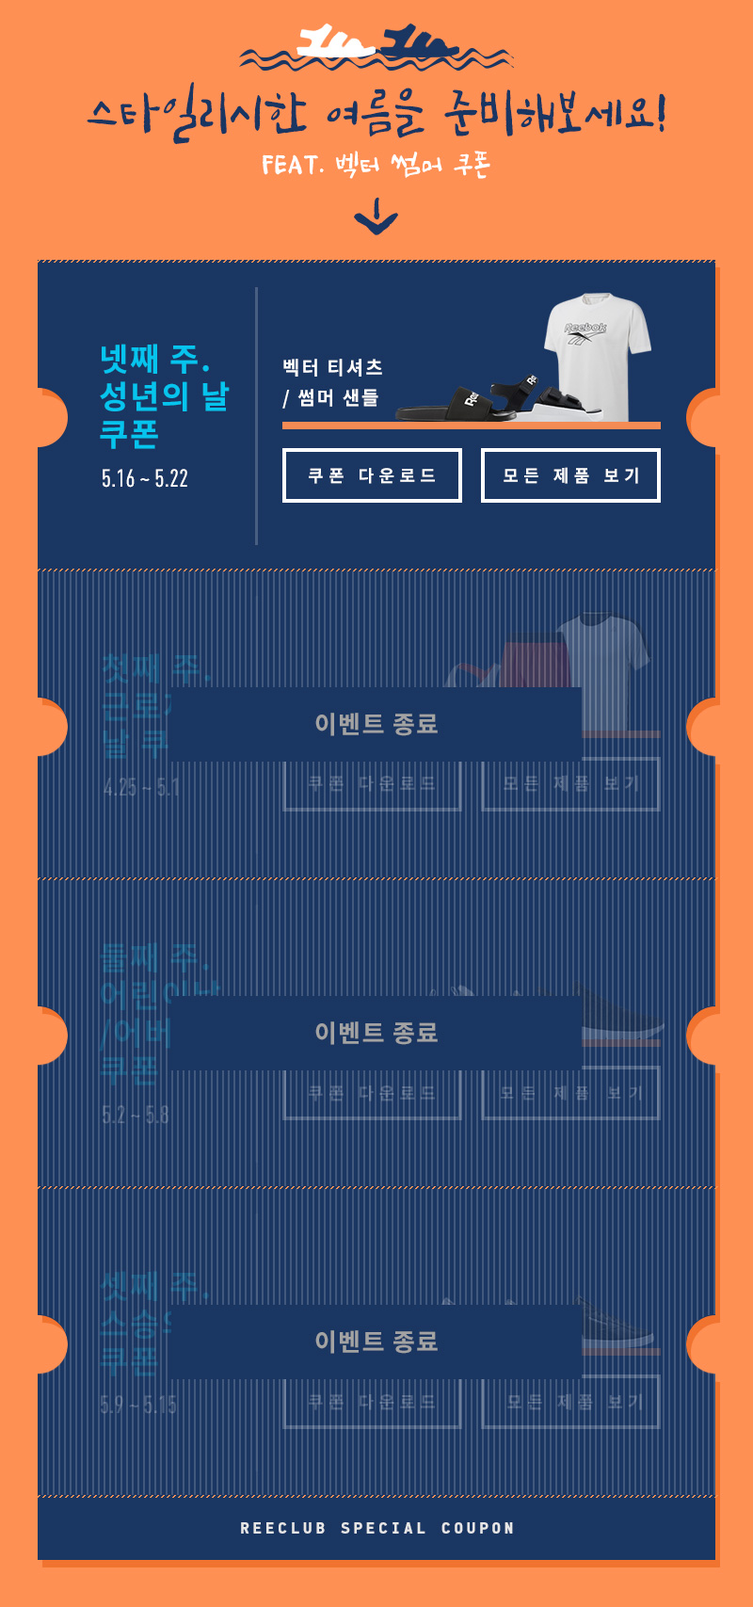
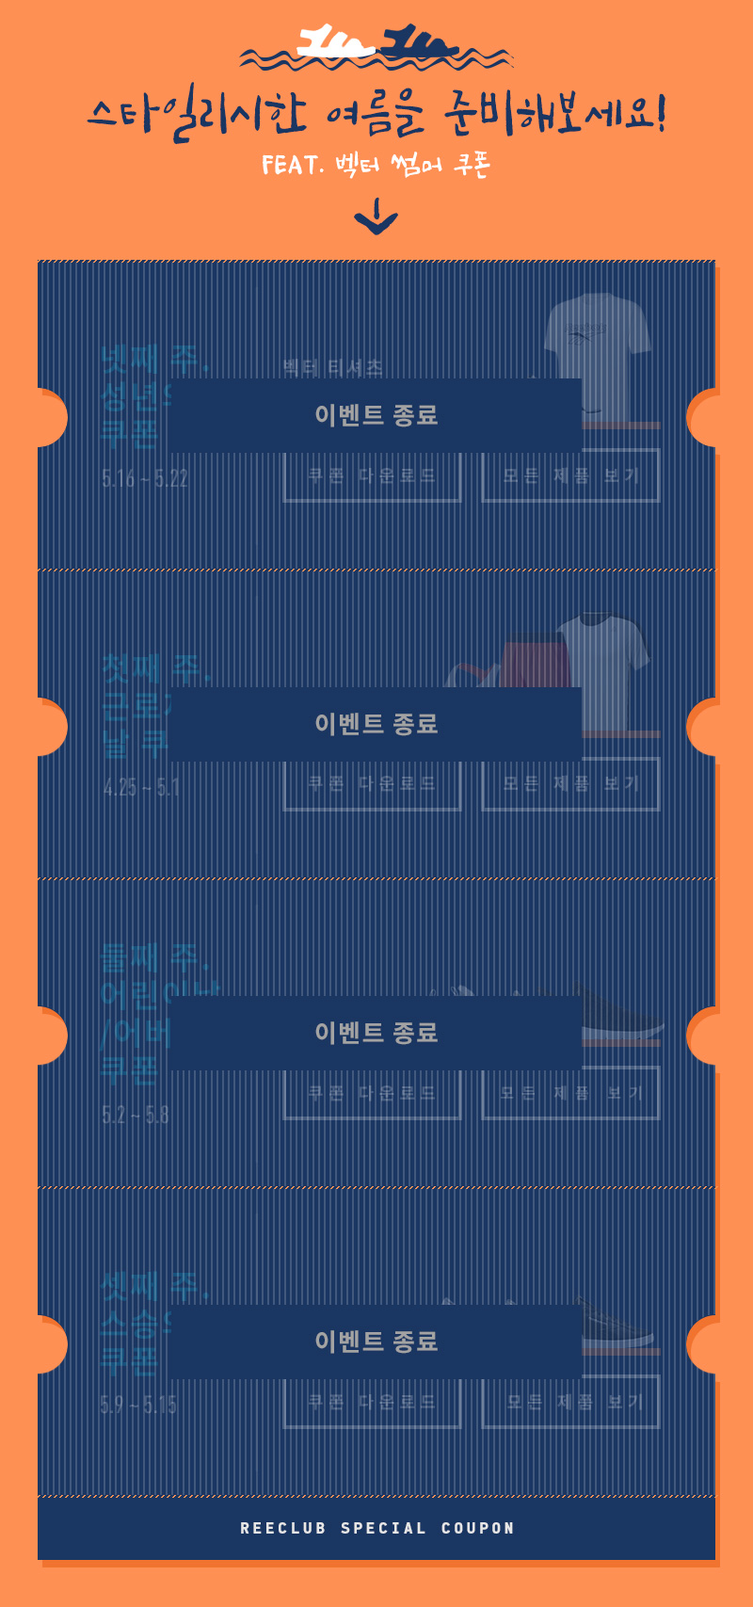
ree_CP_가정의달 마지막

Changed region(s): [[0.0625, 0.1552, 0.9688, 0.3726]]

diff --git a/mobile/html/reebok/pn/2019Family.html b/mobile/html/reebok/pn/2019Family.html
@@ -1,93 +1,87 @@
 <section id="contents">
-		<style type="text/css">#contents{padding-bottom:0px}.pseudo-element,.campaign .close:after,.campaign .close:before,.campaign .video_visual .video_layer:before,.campaign .video-btn:before,.campaign .location a:after{content:'';display:block}html{font-size:12px}@media screen and (max-width: 320px){html{font-size:10px}}@media screen and (min-width: 800px){html{font-size:12px}}.element_to_pop_up{background-color:#fafafb;color:#000;display:none;width:320px;overflow:hidden}@media screen and (max-width: 320px){.element_to_pop_up{width:300px}}.element_to_pop_up .b-close{cursor:pointer;position:absolute;right:15px;top:15px;text-align:right}.element_to_pop_up .b-close img{width:50%}.element_to_pop_up .con{text-align:center}.element_to_pop_up .con img{width:80%}.element_to_pop_up .desc{background:url("/images/reebok/about/heritage/pop_bg.png") 0 0 no-repeat;background-size:100% 100%;padding:3.5rem 0}.element_to_pop_up .desc .tle{position:relative;margin:0px 0 0 1rem;color:#000;font:600 4rem 'dinpro cond'}.element_to_pop_up .desc .tle:before{position:absolute;top:-20px;content:'';width:42px;height:2px;background:#000}.element_to_pop_up .desc .tle2{margin:1rem 0 0 1rem;color:#000;font:0.9rem/1.8rem  'NotoSansKR';letter-spacing:-0.8px}.element_to_pop_up .desc .btn{padding:2rem 0 0 1rem}.element_to_pop_up .desc .btn a.inner-buybtn{position:relative;display:inline-block;margin:0;padding:0 50px;color:#866432;border:2px solid #866432;font:15px/46px  'NotoSansKR';overflow:hidden}.element_to_pop_up .desc .btn a.inner-buybtn em{position:relative;z-index:100;transition:all 0.6s ease-out}.element_to_pop_up .desc .btn a.inner-buybtn .bg{display:inline-block;width:100%;height:63px;position:absolute;bottom:-64px;left:0;background:#866432;transition:all 0.4s ease-out}.element_to_pop_up .desc a.inner-buybtn:hover{color:#fff}.element_to_pop_up .desc a.inner-buybtn:hover .bg{bottom:-10px}.element_to_pop_up .bg_shoe{position:absolute;bottom:0;text-align:right}.element_to_pop_up .bg_shoe img{width:60%;mix-blend-mode:multiply}.clearfix:after{content:'.';display:block;height:0;font-size:0;clear:both;visibility:hidden}.campaign .close{width:40px;height:40px;display:block;position:absolute;top:0;right:0;z-index:10}.campaign .close:after,.campaign .close:before{width:50%;height:1px;position:absolute;top:50%;left:50%;transform:translate3d(-50%, -50%, 0) rotate(45deg);-webkit-transform:translate3d(-50%, -50%, 0) rotate(45deg);background:#5c5c5c}.campaign .close:after{transform:translate3d(-50%, -50%, 0) rotate(-45deg);-webkit-transform:translate3d(-50%, -50%, 0) rotate(-45deg)}.campaign .button_area{padding:0rem 0px;text-align:center}.campaign .button_area .button{padding:1.2rem 2.5rem;display:inline-block;font:500 1.3rem 'dinpro cond','NotoSansKR';color:#000;border:1px solid  #000}.campaign .video_visual{box-sizing:border-box;-webkit-box-sizing:border-box;width:100%;padding-bottom:123.4375%;position:relative}.campaign .video_visual .cover{width:100%;position:absolute;top:50%;left:0;transform:translate3d(0, -50%, 0);-webkit-transform:translate3d(0, -50%, 0);z-index:1}.campaign .video_visual .cover h2{font:4rem/4rem 'QStencil';text-align:center}.campaign .video_visual .bg{position:absolute;width:100%;height:100%}.campaign .video_visual .bg img{width:100%}.campaign .video_visual .video_layer{position:absolute;top:0;left:0;width:100%;height:100%;z-index:-1;overflow:hidden}.campaign .video_visual .video_layer .close{width:40px;height:40px;top:5px;right:5px;opacity:0;transition:opacity 0.5s ease 0.3s;-webkit-transition:opacity 0.5s 0.3s}.campaign .video_visual .video_layer .close:before,.campaign .video_visual .video_layer .close:after{width:70%;height:2px;background:#fff}.campaign .video_visual .video_layer iframe{position:relative;z-index:3}.campaign .video_visual .video_layer:before{width:100%;height:100%;transition:all 0.5s;-webkit-transition:all 0.5s;background:#000;filter:blur(10px);-webkit-filter:blur(10px);opacity:0;transform-origin:center center;-webkit-transform-origin:center center;transform:scale(0);-webkit-transform:scale(0);position:absolute;top:0;left:0}.campaign .video_visual .video_layer.active{z-index:1}.campaign .video_visual .video_layer.active .close{opacity:1}.campaign .video_visual .video_layer.active:before{opacity:1;transform:scale(2);-webkit-transform:scale(2)}.campaign .video_visual .video_layer.hide{z-index:1}.campaign .video_visual .video_layer.hide .close{opacity:0;transition-delay:0;-webkit-transition-delay:0}.campaign .video_visual .video_layer.hide:before{opacity:0;transform:scale(0);-webkit-transform:scale(0)}.campaign .video-btn{width:70px;height:70px;display:block;border:7px solid  #fff;position:relative;border-radius:70px;box-sizing:border-box;-webkit-box-sizing:border-box}.campaign .video-btn:before{position:absolute;top:50%;left:50%;border-top:14px solid transparent;border-bottom:14px solid transparent;border-left:14px solid #fff;margin-left:2px;transform:translate3d(-50%, -50%, 0);-webkit-transform:translate3d(-50%, -50%, 0)}.campaign .location{display:-webkit-flex;display:-moz-flex;display:-ms-flex;display:-o-flex;display:flex;padding:15px 13px;border-top:2px solid  #b71720;background:#252525}.campaign .location>*{margin-right:15px;font:500 13px 'dinpro cond';text-transform:uppercase}.campaign .location a{position:relative;color:#8c8c8c}.campaign .location a:after{width:4px;height:4px;position:absolute;top:2px;right:-9px;border-bottom:1px solid #5c5c5c;border-right:1px solid #5c5c5c;transform:rotate(-45deg);-webkit-transform:rotate(-45deg)}.campaign .location>span{color:#fff;margin-right:0}.campaign .location>span .colab{margin:0px 2px;font-family:'dinpro cond';font-weight:100}.campaign .num_paging{text-align:center}.campaign .num_paging a{width:26px;height:26px;border-radius:26px;margin:0 2px;display:inline-block;border:1px solid #fff;box-sizing:border-box;color:#fff;font:16px/26px 'reefont-condensed';transition-duration:0s;-webkit-transition-duration:0s}.campaign .num_paging .on{color:#000;border-color:#000;background:#000;color:#fff}.campaign .prodlist{width:100%;padding:0 15px;position:relative;display:-webkit-flex;display:-moz-flex;display:-ms-flex;display:-o-flex;display:flex;-webkit-flex-wrap:wrap;flex-wrap:wrap;box-sizing:border-box;-webkit-box-sizing:border-box}.campaign .prodlist>.box{width:50%;margin-bottom:10px}.campaign .prodlist>.box .inner{width:100%;padding-right:5px;position:relative;box-sizing:border-box;-webkit-box-sizing:border-box}.campaign .prodlist>.box .inner>a{width:100%;width:calc(100% - 5px);height:100%;position:absolute;top:0;left:0;display:block;z-index:5}.campaign .prodlist>.box .img{width:100%;position:relative;padding-bottom:122.6190%;background:#fff}.campaign .prodlist>.box .img img{position:absolute;top:0;left:0;width:100%}.campaign .prodlist>.box .info{padding:20px 0 20px 12px;background:#fff}.campaign .prodlist>.box .info>*{text-transform:uppercase;font:500 1rem 'dinpro cond'}.campaign .prodlist>.box .info .ctgr{margin-bottom:0.2rem;color:#7f7979}.campaign .prodlist>.box .info .tit a{color:#252525;font:500 1.4rem 'dinpro cond'}.campaign .prodlist>.box:nth-child(2n) .inner{padding-right:0;padding-left:5px}.main .video_visual{width:100%;padding-bottom:104%;position:relative}.main .video_visual .cover>*{color:#fff;text-align:center}.main .video_visual .cover h2{font:5.4rem/5rem 'QStencil';color:#fff;margin-bottom:1.2rem}.main .video_visual .cover .desc{margin-bottom:2rem;font:300 1.6rem 'NotoSansKR'}.main .video_visual .cover .video-btn{width:60px;height:60px;border-width:6px;margin:0 auto}.main .video_visual .cover .video-btn:before{border-top-width:12px;border-bottom-width:12px;border-left-width:12px}.main .video_visual .bg{overflow:hidden}.main .video_visual .bg img{position:absolute;top:0;left:0;opacity:0;transform:scale(1.02);-webkit-transform:scale(1.02);transition:all 1.5s;-webkit-transition:all 1.5s}.main .video_visual .bg img.active{opacity:1;transform:scale(1);-webkit-transform:scale(1)}.main .camapign_list a{width:100%;padding-bottom:104%}.main .camapign_list img{width:100%}.about_campaign .banner{width:100%}.about_campaign .banner *{display:block;width:100%}.about_campaign .list_btn{background:#e8e8e8;padding:4rem 1.5rem}.about_campaign .list_btn a{width:100%;height:5rem;display:block;border:1px solid #2e2e2e;text-align:center;font:500 2.2rem/5rem 'dinpro cond';color:#000;letter-spacing:2px}.about_campaign .list{background:#333;text-align:center}.about_campaign .list a{color:#fff;display:block;padding:2.3rem 6rem}.about_campaign .list a span{position:relative;left:-5px;display:inline-block;width:68%;vertical-align:middle}.about_campaign .list a span img{width:100%}.about_campaign .list a em{vertical-align:middle}.about_campaign .list a em:after{font-size:15px;position:relative;top:1px}.about_campaign .list a:after{font-size:1.5rem;padding:0.5rem 0 0 1rem;display:inline-block}#video-layer.popup-video.loaded .bg{opacity:.7}#video-layer.popup-video .video-box{position:absolute;top:50%;left:50%;width:100%;height:50%;transform:translate(-50%, -50%);-webkit-transform:translate(-50%, -50%);-moz-transform:translate(-50%, -50%);-o-transform:translate(-50%, -50%);-ms-transform:translate(-50%, -50%);z-index:3}#video-layer.popup-video .close_x_btn{width:50px;height:50px;top:12%}#video-layer{position:fixed;top:0;left:0;width:100%;height:100%;z-index:1000}#video-layer.loaded .bg{opacity:1;transform:scale(1.2);-webkit-transform:scale(1.2)}#video-layer.loaded .close_x_btn{opacity:1}#video-layer .video-box{position:relative;width:100%;height:100%;z-index:3}#video-layer .close_x_btn{width:70px;height:70px;position:absolute;top:0;right:0;z-index:5;opacity:0}#video-layer .bg{width:100%;height:100%;position:absolute;top:0;left:0;transform-origin:center center;-webkit-transform-origin:center center;transform:scale(0);-webkit-transform:scale(0);opacity:0;background:#000;z-index:1;transition:all 0.4s;-webkit-transition:all 0.4s}.main_list .video_visual{position:relative;background:#eff0ea;padding-bottom:149%}@media screen and (min-width: 750px){.main_list .video_visual{padding-bottom:125%}}.main_list .video_visual .bg img{box-sizing:border-box;-webkit-box-sizing:border-box;border:10px solid #eff0ea}.main_list .video_visual .cover{top:35%}.main_list .video_visual .txt{position:absolute;bottom:8%;width:100%;text-align:center}.main_list .video_visual .txt a.full_link{position:absolute;top:-16px;left:0;width:100%;height:143%}@media screen and (min-width: 750px){.main_list .video_visual .txt{bottom:6%}}.main_list .video_visual .txt .title{font:3.3rem 'QStencil'}.main_list .video_visual .txt .tit{display:inline-block;padding-bottom:1.5rem;font:400 1.2rem 'NotoSansKR';letter-spacing:-1px}.main_list .video_visual .txt .btn a{display:inline-block;padding:0.3rem 3.5rem 0 3.5rem;border:1px solid #151515;font:400 1.3rem/3.8rem 'dinpro cond', 'NotoSansKR';color:#000}.main_list .box{position:relative;border-bottom:2px solid #bebfba}.main_list .box a.nano_m{position:absolute;top:0;left:0;width:50%;height:100%}.main_list .box a.nano_w{position:absolute;top:0;right:0;width:50%;height:100%}.main_list .box a.full_link{position:absolute;top:0;left:0;width:100%;height:100%}.main_list .box .img{border:10px solid #eff0ea;box-sizing:border-box;-webkit-box-sizing:border-box}.main_list .box .img img{width:100%}.main_list .box .txt{padding:1rem 0 3rem 0;text-align:center;background:#eff0ea}.main_list .box .txt .title{font:3.8rem 'QStencil'}.main_list .box .txt .title span{display:inline-block;vertical-align:middle;line-height:4rem}.main_list .box .txt .title span img{width:3.3rem}.main_list .box .txt .tit{display:inline-block;padding-bottom:1.5rem;font:400 1.1rem 'NotoSansKR';letter-spacing:-1px}.main_list .box .txt .btn a{display:inline-block;width:12rem;padding:0.3rem 0 0 0;border:1px solid #151515;font:1.3rem/3.8rem 'dinpro cond', 'NotoSansKR';color:#000}.campaign_list_update{display:block;background:url("/images/reebok/about/campaign_list/bg.jpg");background-size:100%;padding:8rem 1rem 4rem 1rem}.campaign_list_update .box{padding-bottom:1rem}.campaign_list_update .box a{display:block}.campaign_list_update .box a img{width:100%}.campaign_list_update .box:last-child{padding-bottom:0px}.family2019 .visual_main img,.family2019 .box01 img,.family2019 .box02 img,.family2019 .cont_container img,.family2019 .info img,.family2019 .btm img{width:100%;position:relative;opacity:0;transition:all 1s ease-in}.family2019 .visual_main{position:relative}.family2019 .visual_main .img.on img{opacity:1}.family2019 .visual_main .deco{position:absolute;top:0;left:50%;transform:translateX(-50%);width:100%}.family2019 .visual_main .deco.on img{opacity:1;transition-delay:.4s}.box01{position:relative}.box01 img{top:1rem}.box01.on img{top:0;opacity:1}.box01 .lnk1{position:absolute;top:59%;left:4%;width:20%;height:5%}.box01 .lnk2{position:absolute;top:88%;left:52%;width:25%;height:4%}.box01 .lnk3{position:absolute;top:62%;left:37%;width:56%;height:11%}.box02 img{top:1rem}.box02.on img{top:0;opacity:1;transition-delay:.2s}.cont_container{position:relative}.cont_container img{top:1rem}.cont_container.on img{top:0;opacity:1;transition-delay:.2s}.cont_container .lnk4{position:absolute;top:27.6%;left:37%;width:24%;height:4%}.cont_container .lnk5{position:absolute;top:27.6%;left:64%;width:24%;height:4%}.cont_container .lnk6{position:absolute;top:47%;left:37%;width:24%;height:3.5%}.cont_container .lnk7{position:absolute;top:47%;left:64%;width:24%;height:3.5%}.info{position:relative}.info img{top:1rem}.info.on img{top:0;opacity:1;transition-delay:.2s}.info .lnk8{position:absolute;top:47.1%;left:23%;width:33%;height:4%}.btm{position:relative}.btm .img{top:1rem}.btm .end{position:absolute;bottom:-1rem}.btm.on .img{top:0;opacity:1;transition-delay:.2s}.btm.on .end{bottom:0;opacity:1;transition-delay:1s}
-		</style>
-						<div class="campaign about_campaign family2019">
-		
-							<div class="visual_main">
-								<div class="img scroll">
-									<img src="/images/reebok/2019/event/family/1904_main_MO.jpg" alt="">
-								</div>
-								<div class="deco scroll">
-									<img src="/images/reebok/2019/event/family/1904_topDeco_MO.png" alt="">
-								</div>
+	<style type="text/css">#contents{padding-bottom:0px}.pseudo-element,.campaign .close:after,.campaign .close:before,.campaign .video_visual .video_layer:before,.campaign .video-btn:before,.campaign .location a:after{content:'';display:block}html{font-size:12px}@media screen and (max-width: 320px){html{font-size:10px}}@media screen and (min-width: 800px){html{font-size:12px}}.element_to_pop_up{background-color:#fafafb;color:#000;display:none;width:320px;overflow:hidden}@media screen and (max-width: 320px){.element_to_pop_up{width:300px}}.element_to_pop_up .b-close{cursor:pointer;position:absolute;right:15px;top:15px;text-align:right}.element_to_pop_up .b-close img{width:50%}.element_to_pop_up .con{text-align:center}.element_to_pop_up .con img{width:80%}.element_to_pop_up .desc{background:url("/images/reebok/about/heritage/pop_bg.png") 0 0 no-repeat;background-size:100% 100%;padding:3.5rem 0}.element_to_pop_up .desc .tle{position:relative;margin:0px 0 0 1rem;color:#000;font:600 4rem 'dinpro cond'}.element_to_pop_up .desc .tle:before{position:absolute;top:-20px;content:'';width:42px;height:2px;background:#000}.element_to_pop_up .desc .tle2{margin:1rem 0 0 1rem;color:#000;font:0.9rem/1.8rem  'NotoSansKR';letter-spacing:-0.8px}.element_to_pop_up .desc .btn{padding:2rem 0 0 1rem}.element_to_pop_up .desc .btn a.inner-buybtn{position:relative;display:inline-block;margin:0;padding:0 50px;color:#866432;border:2px solid #866432;font:15px/46px  'NotoSansKR';overflow:hidden}.element_to_pop_up .desc .btn a.inner-buybtn em{position:relative;z-index:100;transition:all 0.6s ease-out}.element_to_pop_up .desc .btn a.inner-buybtn .bg{display:inline-block;width:100%;height:63px;position:absolute;bottom:-64px;left:0;background:#866432;transition:all 0.4s ease-out}.element_to_pop_up .desc a.inner-buybtn:hover{color:#fff}.element_to_pop_up .desc a.inner-buybtn:hover .bg{bottom:-10px}.element_to_pop_up .bg_shoe{position:absolute;bottom:0;text-align:right}.element_to_pop_up .bg_shoe img{width:60%;mix-blend-mode:multiply}.clearfix:after{content:'.';display:block;height:0;font-size:0;clear:both;visibility:hidden}.campaign .close{width:40px;height:40px;display:block;position:absolute;top:0;right:0;z-index:10}.campaign .close:after,.campaign .close:before{width:50%;height:1px;position:absolute;top:50%;left:50%;transform:translate3d(-50%, -50%, 0) rotate(45deg);-webkit-transform:translate3d(-50%, -50%, 0) rotate(45deg);background:#5c5c5c}.campaign .close:after{transform:translate3d(-50%, -50%, 0) rotate(-45deg);-webkit-transform:translate3d(-50%, -50%, 0) rotate(-45deg)}.campaign .button_area{padding:0rem 0px;text-align:center}.campaign .button_area .button{padding:1.2rem 2.5rem;display:inline-block;font:500 1.3rem 'dinpro cond','NotoSansKR';color:#000;border:1px solid  #000}.campaign .video_visual{box-sizing:border-box;-webkit-box-sizing:border-box;width:100%;padding-bottom:123.4375%;position:relative}.campaign .video_visual .cover{width:100%;position:absolute;top:50%;left:0;transform:translate3d(0, -50%, 0);-webkit-transform:translate3d(0, -50%, 0);z-index:1}.campaign .video_visual .cover h2{font:4rem/4rem 'QStencil';text-align:center}.campaign .video_visual .bg{position:absolute;width:100%;height:100%}.campaign .video_visual .bg img{width:100%}.campaign .video_visual .video_layer{position:absolute;top:0;left:0;width:100%;height:100%;z-index:-1;overflow:hidden}.campaign .video_visual .video_layer .close{width:40px;height:40px;top:5px;right:5px;opacity:0;transition:opacity 0.5s ease 0.3s;-webkit-transition:opacity 0.5s 0.3s}.campaign .video_visual .video_layer .close:before,.campaign .video_visual .video_layer .close:after{width:70%;height:2px;background:#fff}.campaign .video_visual .video_layer iframe{position:relative;z-index:3}.campaign .video_visual .video_layer:before{width:100%;height:100%;transition:all 0.5s;-webkit-transition:all 0.5s;background:#000;filter:blur(10px);-webkit-filter:blur(10px);opacity:0;transform-origin:center center;-webkit-transform-origin:center center;transform:scale(0);-webkit-transform:scale(0);position:absolute;top:0;left:0}.campaign .video_visual .video_layer.active{z-index:1}.campaign .video_visual .video_layer.active .close{opacity:1}.campaign .video_visual .video_layer.active:before{opacity:1;transform:scale(2);-webkit-transform:scale(2)}.campaign .video_visual .video_layer.hide{z-index:1}.campaign .video_visual .video_layer.hide .close{opacity:0;transition-delay:0;-webkit-transition-delay:0}.campaign .video_visual .video_layer.hide:before{opacity:0;transform:scale(0);-webkit-transform:scale(0)}.campaign .video-btn{width:70px;height:70px;display:block;border:7px solid  #fff;position:relative;border-radius:70px;box-sizing:border-box;-webkit-box-sizing:border-box}.campaign .video-btn:before{position:absolute;top:50%;left:50%;border-top:14px solid transparent;border-bottom:14px solid transparent;border-left:14px solid #fff;margin-left:2px;transform:translate3d(-50%, -50%, 0);-webkit-transform:translate3d(-50%, -50%, 0)}.campaign .location{display:-webkit-flex;display:-moz-flex;display:-ms-flex;display:-o-flex;display:flex;padding:15px 13px;border-top:2px solid  #b71720;background:#252525}.campaign .location>*{margin-right:15px;font:500 13px 'dinpro cond';text-transform:uppercase}.campaign .location a{position:relative;color:#8c8c8c}.campaign .location a:after{width:4px;height:4px;position:absolute;top:2px;right:-9px;border-bottom:1px solid #5c5c5c;border-right:1px solid #5c5c5c;transform:rotate(-45deg);-webkit-transform:rotate(-45deg)}.campaign .location>span{color:#fff;margin-right:0}.campaign .location>span .colab{margin:0px 2px;font-family:'dinpro cond';font-weight:100}.campaign .num_paging{text-align:center}.campaign .num_paging a{width:26px;height:26px;border-radius:26px;margin:0 2px;display:inline-block;border:1px solid #fff;box-sizing:border-box;color:#fff;font:16px/26px 'reefont-condensed';transition-duration:0s;-webkit-transition-duration:0s}.campaign .num_paging .on{color:#000;border-color:#000;background:#000;color:#fff}.campaign .prodlist{width:100%;padding:0 15px;position:relative;display:-webkit-flex;display:-moz-flex;display:-ms-flex;display:-o-flex;display:flex;-webkit-flex-wrap:wrap;flex-wrap:wrap;box-sizing:border-box;-webkit-box-sizing:border-box}.campaign .prodlist>.box{width:50%;margin-bottom:10px}.campaign .prodlist>.box .inner{width:100%;padding-right:5px;position:relative;box-sizing:border-box;-webkit-box-sizing:border-box}.campaign .prodlist>.box .inner>a{width:100%;width:calc(100% - 5px);height:100%;position:absolute;top:0;left:0;display:block;z-index:5}.campaign .prodlist>.box .img{width:100%;position:relative;padding-bottom:122.6190%;background:#fff}.campaign .prodlist>.box .img img{position:absolute;top:0;left:0;width:100%}.campaign .prodlist>.box .info{padding:20px 0 20px 12px;background:#fff}.campaign .prodlist>.box .info>*{text-transform:uppercase;font:500 1rem 'dinpro cond'}.campaign .prodlist>.box .info .ctgr{margin-bottom:0.2rem;color:#7f7979}.campaign .prodlist>.box .info .tit a{color:#252525;font:500 1.4rem 'dinpro cond'}.campaign .prodlist>.box:nth-child(2n) .inner{padding-right:0;padding-left:5px}.main .video_visual{width:100%;padding-bottom:104%;position:relative}.main .video_visual .cover>*{color:#fff;text-align:center}.main .video_visual .cover h2{font:5.4rem/5rem 'QStencil';color:#fff;margin-bottom:1.2rem}.main .video_visual .cover .desc{margin-bottom:2rem;font:300 1.6rem 'NotoSansKR'}.main .video_visual .cover .video-btn{width:60px;height:60px;border-width:6px;margin:0 auto}.main .video_visual .cover .video-btn:before{border-top-width:12px;border-bottom-width:12px;border-left-width:12px}.main .video_visual .bg{overflow:hidden}.main .video_visual .bg img{position:absolute;top:0;left:0;opacity:0;transform:scale(1.02);-webkit-transform:scale(1.02);transition:all 1.5s;-webkit-transition:all 1.5s}.main .video_visual .bg img.active{opacity:1;transform:scale(1);-webkit-transform:scale(1)}.main .camapign_list a{width:100%;padding-bottom:104%}.main .camapign_list img{width:100%}.about_campaign .banner{width:100%}.about_campaign .banner *{display:block;width:100%}.about_campaign .list_btn{background:#e8e8e8;padding:4rem 1.5rem}.about_campaign .list_btn a{width:100%;height:5rem;display:block;border:1px solid #2e2e2e;text-align:center;font:500 2.2rem/5rem 'dinpro cond';color:#000;letter-spacing:2px}.about_campaign .list{background:#333;text-align:center}.about_campaign .list a{color:#fff;display:block;padding:2.3rem 6rem}.about_campaign .list a span{position:relative;left:-5px;display:inline-block;width:68%;vertical-align:middle}.about_campaign .list a span img{width:100%}.about_campaign .list a em{vertical-align:middle}.about_campaign .list a em:after{font-size:15px;position:relative;top:1px}.about_campaign .list a:after{font-size:1.5rem;padding:0.5rem 0 0 1rem;display:inline-block}#video-layer.popup-video.loaded .bg{opacity:.7}#video-layer.popup-video .video-box{position:absolute;top:50%;left:50%;width:100%;height:50%;transform:translate(-50%, -50%);-webkit-transform:translate(-50%, -50%);-moz-transform:translate(-50%, -50%);-o-transform:translate(-50%, -50%);-ms-transform:translate(-50%, -50%);z-index:3}#video-layer.popup-video .close_x_btn{width:50px;height:50px;top:12%}#video-layer{position:fixed;top:0;left:0;width:100%;height:100%;z-index:1000}#video-layer.loaded .bg{opacity:1;transform:scale(1.2);-webkit-transform:scale(1.2)}#video-layer.loaded .close_x_btn{opacity:1}#video-layer .video-box{position:relative;width:100%;height:100%;z-index:3}#video-layer .close_x_btn{width:70px;height:70px;position:absolute;top:0;right:0;z-index:5;opacity:0}#video-layer .bg{width:100%;height:100%;position:absolute;top:0;left:0;transform-origin:center center;-webkit-transform-origin:center center;transform:scale(0);-webkit-transform:scale(0);opacity:0;background:#000;z-index:1;transition:all 0.4s;-webkit-transition:all 0.4s}.main_list .video_visual{position:relative;background:#eff0ea;padding-bottom:149%}@media screen and (min-width: 750px){.main_list .video_visual{padding-bottom:125%}}.main_list .video_visual .bg img{box-sizing:border-box;-webkit-box-sizing:border-box;border:10px solid #eff0ea}.main_list .video_visual .cover{top:35%}.main_list .video_visual .txt{position:absolute;bottom:8%;width:100%;text-align:center}.main_list .video_visual .txt a.full_link{position:absolute;top:-16px;left:0;width:100%;height:143%}@media screen and (min-width: 750px){.main_list .video_visual .txt{bottom:6%}}.main_list .video_visual .txt .title{font:3.3rem 'QStencil'}.main_list .video_visual .txt .tit{display:inline-block;padding-bottom:1.5rem;font:400 1.2rem 'NotoSansKR';letter-spacing:-1px}.main_list .video_visual .txt .btn a{display:inline-block;padding:0.3rem 3.5rem 0 3.5rem;border:1px solid #151515;font:400 1.3rem/3.8rem 'dinpro cond', 'NotoSansKR';color:#000}.main_list .box{position:relative;border-bottom:2px solid #bebfba}.main_list .box a.nano_m{position:absolute;top:0;left:0;width:50%;height:100%}.main_list .box a.nano_w{position:absolute;top:0;right:0;width:50%;height:100%}.main_list .box a.full_link{position:absolute;top:0;left:0;width:100%;height:100%}.main_list .box .img{border:10px solid #eff0ea;box-sizing:border-box;-webkit-box-sizing:border-box}.main_list .box .img img{width:100%}.main_list .box .txt{padding:1rem 0 3rem 0;text-align:center;background:#eff0ea}.main_list .box .txt .title{font:3.8rem 'QStencil'}.main_list .box .txt .title span{display:inline-block;vertical-align:middle;line-height:4rem}.main_list .box .txt .title span img{width:3.3rem}.main_list .box .txt .tit{display:inline-block;padding-bottom:1.5rem;font:400 1.1rem 'NotoSansKR';letter-spacing:-1px}.main_list .box .txt .btn a{display:inline-block;width:12rem;padding:0.3rem 0 0 0;border:1px solid #151515;font:1.3rem/3.8rem 'dinpro cond', 'NotoSansKR';color:#000}.campaign_list_update{display:block;background:url("/images/reebok/about/campaign_list/bg.jpg");background-size:100%;padding:8rem 1rem 4rem 1rem}.campaign_list_update .box{padding-bottom:1rem}.campaign_list_update .box a{display:block}.campaign_list_update .box a img{width:100%}.campaign_list_update .box:last-child{padding-bottom:0px}.family2019 .visual_main img,.family2019 .box01 img,.family2019 .box02 img,.family2019 .cont_container img,.family2019 .info img,.family2019 .btm img{width:100%;position:relative;opacity:0;transition:all 1s ease-in}.family2019 .visual_main{position:relative}.family2019 .visual_main .img.on img{opacity:1}.family2019 .visual_main .deco{position:absolute;top:0;left:50%;transform:translateX(-50%);width:100%}.family2019 .visual_main .deco.on img{opacity:1;transition-delay:.4s}.box01{position:relative}.box01 img{top:1rem}.box01.on img{top:0;opacity:1}.box01 .lnk1{position:absolute;top:59%;left:4%;width:20%;height:5%}.box01 .lnk2{position:absolute;top:88%;left:52%;width:25%;height:4%}.box01 .lnk3{position:absolute;top:62%;left:37%;width:56%;height:11%}.box02 img{top:1rem}.box02.on img{top:0;opacity:1;transition-delay:.2s}.cont_container{position:relative}.cont_container img{top:1rem}.cont_container.on img{top:0;opacity:1;transition-delay:.2s}.cont_container .lnk4{position:absolute;top:27.6%;left:37%;width:24%;height:4%}.cont_container .lnk5{position:absolute;top:27.6%;left:64%;width:24%;height:4%}.cont_container .lnk6{position:absolute;top:47%;left:37%;width:24%;height:3.5%}.cont_container .lnk7{position:absolute;top:47%;left:64%;width:24%;height:3.5%}.info{position:relative}.info img{top:1rem}.info.on img{top:0;opacity:1;transition-delay:.2s}.info .lnk8{position:absolute;top:47.1%;left:23%;width:33%;height:4%}.btm{position:relative}.btm .img{top:1rem}.btm .end{position:absolute;bottom:-1rem}.btm.on .img{top:0;opacity:1;transition-delay:.2s}.btm.on .end{bottom:0;opacity:1;transition-delay:1s}
+	</style>
+					<div class="campaign about_campaign family2019">
+	
+						<div class="visual_main">
+							<div class="img scroll">
+								<img src="/images/reebok/2019/event/family/1904_main_MO.jpg" alt="">
 							</div>
-							<div class="box01 scroll">
-								<img src="/images/reebok/2019/event/family/1904_box01_MO.jpg" alt="">
-								<a href="https://m.reebok.co.kr/MO/Member/memJoin.action" class="lnk1"></a>
-								<a href="http://m.reebok.co.kr/MO/Customer/customerStoreList.action?store_divi_vi=&store_divi=&CLUB_YN=&CPON_ID=10198&EVENT_ID=" class="lnk2"></a>
-								<a href="https://m.reebok.co.kr/MO/MyPage/mypageCoupSel.action" class="lnk3"></a>
-							</div>
-							<div class="box02 scroll">
-								<img src="/images/reebok/2019/event/family/1904_box02_MO.jpg" alt="">
-							</div>
-							<div class="cont_container scroll">
-								<img src="/images/reebok/2019/event/family/1904_contContainer_MO.jpg" alt="">
-								<a href="http://m.reebok.co.kr/MO/Club/cponPublMem.action?KEY=UM7UVFY362" class="lnk4"></a>
-								<a href="http://shop.reebok.co.kr/RPF070801.action?pageNo=841" class="lnk5"></a>
-								<!-- <a href="http://m.reebok.co.kr/MO/Club/cponPublMem.action?KEY=UM7UVFY362" class="lnk6"></a>
-								<a href="http://shop.reebok.co.kr/RPF070801.action?pageNo=841" class="lnk7"></a> -->
-								
-								<!-- 3주차
-								http://m.reebok.co.kr/MO/Club/cponPublMem.action?KEY=90S94YLPKT
-								http://shop.reebok.co.kr/RPF070801.action?pageNo=839
-								4주차
-								http://m.reebok.co.kr/MO/Club/cponPublMem.action?KEY=UM7UVFY362
-								http://shop.reebok.co.kr/RPF070801.action?pageNo=841 -->
-							</div>
-							<div class="info scroll">
-								<img src="/images/reebok/2019/event/family/1904_info_MO.jpg" alt="">
-								<a href="http://m.reebok.co.kr/MO/Customer/customerStoreList.action?store_divi_vi=&store_divi=&CLUB_YN=&CPON_ID=10198&EVENT_ID=" class="lnk8"></a>
-							</div>
-							<div class="btm scroll">
-								<img src="/images/reebok/2019/event/family/1904_bottom_MO.jpg" alt="" class="img">
-								<img src="/images/reebok/2019/event/family/1904_end_MO.jpg" alt="" class="end">
-							</div>
-							<div class="list">
-								<a href="http://m.reebok.co.kr/brand/campaign/list.action">
-									<span><img src="http://imagem.reebok.co.kr/images/reebok/about/list_txt.png" alt=""></span>
-									<em class="icons aft" data-icon=""></em>
-								</a>
+							<div class="deco scroll">
+								<img src="/images/reebok/2019/event/family/1904_topDeco_MO.png" alt="">
 							</div>
 						</div>
-						<!-- //about_camapign -->
-		
-		
-						<script type="text/javascript">
-							$(document).ready(function(){
-								setTimeout(function(){
-									$('.visual_main .img').addClass('on');
-									$('.visual_main .deco').addClass('on');
-								},400);
-		
-								var scrollArray = [];
-								var scrollSelectors = document.querySelectorAll('.scroll');
-		
-								for (var i = 0; i < scrollSelectors.length; i++) {
-									var mypos = scrollSelectors[i].offsetTop;
-									scrollArray.push(mypos);
-								};
-		
-								$(window).scroll(function () {
-		
-									var thisPos = $(this).scrollTop() + $(window).height() - 200;
-		
-									console.log(thisPos);
-									console.log(scrollArray);						
-		
-									for (var pos = 0; pos < scrollArray.length; pos++) {
-										if (thisPos > scrollArray[pos]) {
-											$('.scroll').eq(pos).addClass('on');
-										}
+						<div class="box01 scroll">
+							<img src="/images/reebok/2019/event/family/1904_box01_MO.jpg" alt="">
+							<a href="https://m.reebok.co.kr/MO/Member/memJoin.action" class="lnk1"></a>
+							<a href="http://m.reebok.co.kr/MO/Customer/customerStoreList.action?store_divi_vi=&store_divi=&CLUB_YN=&CPON_ID=10198&EVENT_ID=" class="lnk2"></a>
+							<a href="https://m.reebok.co.kr/MO/MyPage/mypageCoupSel.action" class="lnk3"></a>
+						</div>
+						<div class="box02 scroll">
+							<img src="/images/reebok/2019/event/family/1904_box02_MO.jpg" alt="">
+						</div>
+						<div class="cont_container scroll">
+							<img src="/images/reebok/2019/event/family/1904_contContainer_MO.jpg" alt="">
+							<!-- <a href="http://m.reebok.co.kr/MO/Club/cponPublMem.action?KEY=UM7UVFY362" class="lnk4"></a>
+							<a href="http://shop.reebok.co.kr/RPF070801.action?pageNo=841" class="lnk5"></a> -->
+							<!-- <a href="http://m.reebok.co.kr/MO/Club/cponPublMem.action?KEY=UM7UVFY362" class="lnk6"></a>
+							<a href="http://shop.reebok.co.kr/RPF070801.action?pageNo=841" class="lnk7"></a> -->
+							
+						</div>
+						<div class="info scroll">
+							<img src="/images/reebok/2019/event/family/1904_info_MO.jpg" alt="">
+							<a href="http://m.reebok.co.kr/MO/Customer/customerStoreList.action?store_divi_vi=&store_divi=&CLUB_YN=&CPON_ID=10198&EVENT_ID=" class="lnk8"></a>
+						</div>
+						<div class="btm scroll">
+							<img src="/images/reebok/2019/event/family/1904_bottom_MO.jpg" alt="" class="img">
+							<img src="/images/reebok/2019/event/family/1904_end_MO.jpg" alt="" class="end">
+						</div>
+						<div class="list">
+							<a href="http://m.reebok.co.kr/brand/campaign/list.action">
+								<span><img src="http://imagem.reebok.co.kr/images/reebok/about/list_txt.png" alt=""></span>
+								<em class="icons aft" data-icon=""></em>
+							</a>
+						</div>
+					</div>
+					<!-- //about_camapign -->
+	
+	
+					<script type="text/javascript">
+						$(document).ready(function(){
+							setTimeout(function(){
+								$('.visual_main .img').addClass('on');
+								$('.visual_main .deco').addClass('on');
+							},400);
+	
+							var scrollArray = [];
+							var scrollSelectors = document.querySelectorAll('.scroll');
+	
+							for (var i = 0; i < scrollSelectors.length; i++) {
+								var mypos = scrollSelectors[i].offsetTop;
+								scrollArray.push(mypos);
+							};
+	
+							$(window).scroll(function () {
+	
+								var thisPos = $(this).scrollTop() + $(window).height() - 200;
+	
+								console.log(thisPos);
+								console.log(scrollArray);						
+	
+								for (var pos = 0; pos < scrollArray.length; pos++) {
+									if (thisPos > scrollArray[pos]) {
+										$('.scroll').eq(pos).addClass('on');
 									}
-								});
+								}
+							});
+	
+	
 		
-		
-			
-							})
-		
-		
-		
-						</script>
-		
-					</section>
-					<!-- //contents -->
+						})
+	
+	
+	
+					</script>
+	
+				</section>
+				<!-- //contents -->

diff --git a/mobile/html/reebok/2019/event/family/build/index.html b/mobile/html/reebok/2019/event/family/build/index.html
@@ -149,17 +149,11 @@
 					</div>
 					<div class="cont_container scroll">
 						<img src="/images/reebok/2019/event/family/1904_contContainer_MO.jpg" alt="">
-						<a href="http://m.reebok.co.kr/MO/Club/cponPublMem.action?KEY=UM7UVFY362" class="lnk4"></a>
-						<a href="http://shop.reebok.co.kr/RPF070801.action?pageNo=841" class="lnk5"></a>
+						<!-- <a href="http://m.reebok.co.kr/MO/Club/cponPublMem.action?KEY=UM7UVFY362" class="lnk4"></a>
+						<a href="http://shop.reebok.co.kr/RPF070801.action?pageNo=841" class="lnk5"></a> -->
 						<!-- <a href="http://m.reebok.co.kr/MO/Club/cponPublMem.action?KEY=UM7UVFY362" class="lnk6"></a>
 						<a href="http://shop.reebok.co.kr/RPF070801.action?pageNo=841" class="lnk7"></a> -->
 						
-						<!-- 3주차
-						http://m.reebok.co.kr/MO/Club/cponPublMem.action?KEY=90S94YLPKT
-						http://shop.reebok.co.kr/RPF070801.action?pageNo=839
-						4주차
-						http://m.reebok.co.kr/MO/Club/cponPublMem.action?KEY=UM7UVFY362
-						http://shop.reebok.co.kr/RPF070801.action?pageNo=841 -->
 					</div>
 					<div class="info scroll">
 						<img src="/images/reebok/2019/event/family/1904_info_MO.jpg" alt="">

diff --git a/mobile/html/reebok/2019/event/family/index.html b/mobile/html/reebok/2019/event/family/index.html
@@ -147,17 +147,11 @@
 					</div>
 					<div class="cont_container scroll">
 						<img src="/images/reebok/2019/event/family/1904_contContainer_MO.jpg" alt="">
-						<a href="http://m.reebok.co.kr/MO/Club/cponPublMem.action?KEY=UM7UVFY362" class="lnk4"></a>
-						<a href="http://shop.reebok.co.kr/RPF070801.action?pageNo=841" class="lnk5"></a>
+						<!-- <a href="http://m.reebok.co.kr/MO/Club/cponPublMem.action?KEY=UM7UVFY362" class="lnk4"></a>
+						<a href="http://shop.reebok.co.kr/RPF070801.action?pageNo=841" class="lnk5"></a> -->
 						<!-- <a href="http://m.reebok.co.kr/MO/Club/cponPublMem.action?KEY=UM7UVFY362" class="lnk6"></a>
 						<a href="http://shop.reebok.co.kr/RPF070801.action?pageNo=841" class="lnk7"></a> -->
 						
-						<!-- 3주차
-						http://m.reebok.co.kr/MO/Club/cponPublMem.action?KEY=90S94YLPKT
-						http://shop.reebok.co.kr/RPF070801.action?pageNo=839
-						4주차
-						http://m.reebok.co.kr/MO/Club/cponPublMem.action?KEY=UM7UVFY362
-						http://shop.reebok.co.kr/RPF070801.action?pageNo=841 -->
 					</div>
 					<div class="info scroll">
 						<img src="/images/reebok/2019/event/family/1904_info_MO.jpg" alt="">
